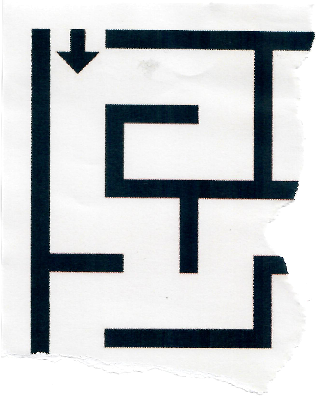
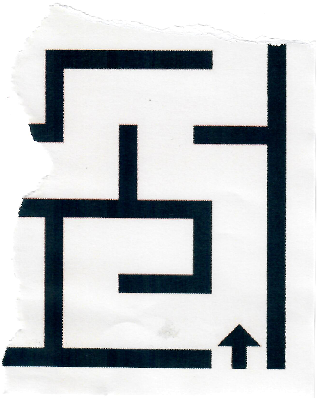
some rotation struggles

diff --git a/client/styles/puzzle.css b/client/styles/puzzle.css
@@ -12,32 +12,29 @@
 .entrance {
   grid-area: entrance;
   position: relative;
-  left: 140px;
+  left: 85px;
 }
 
 .middle {
   position: relative;
   grid-area: middle;
-  left: 90px;
+  left: 35px;
 }
 
 .corner {
   grid-area: corner;
   position: relative;
+  top: -73px;
+
   left: -140px;
 }
 
 .exit {
   grid-area: exit;
   position: relative;
-  top: -40px;
+  top: -180px;
   left: -70px;
 }
-
-/* .middle {
-  top: 3em;
-  left: 25em;
-} */
 
 .pieces {
   display: flex;
